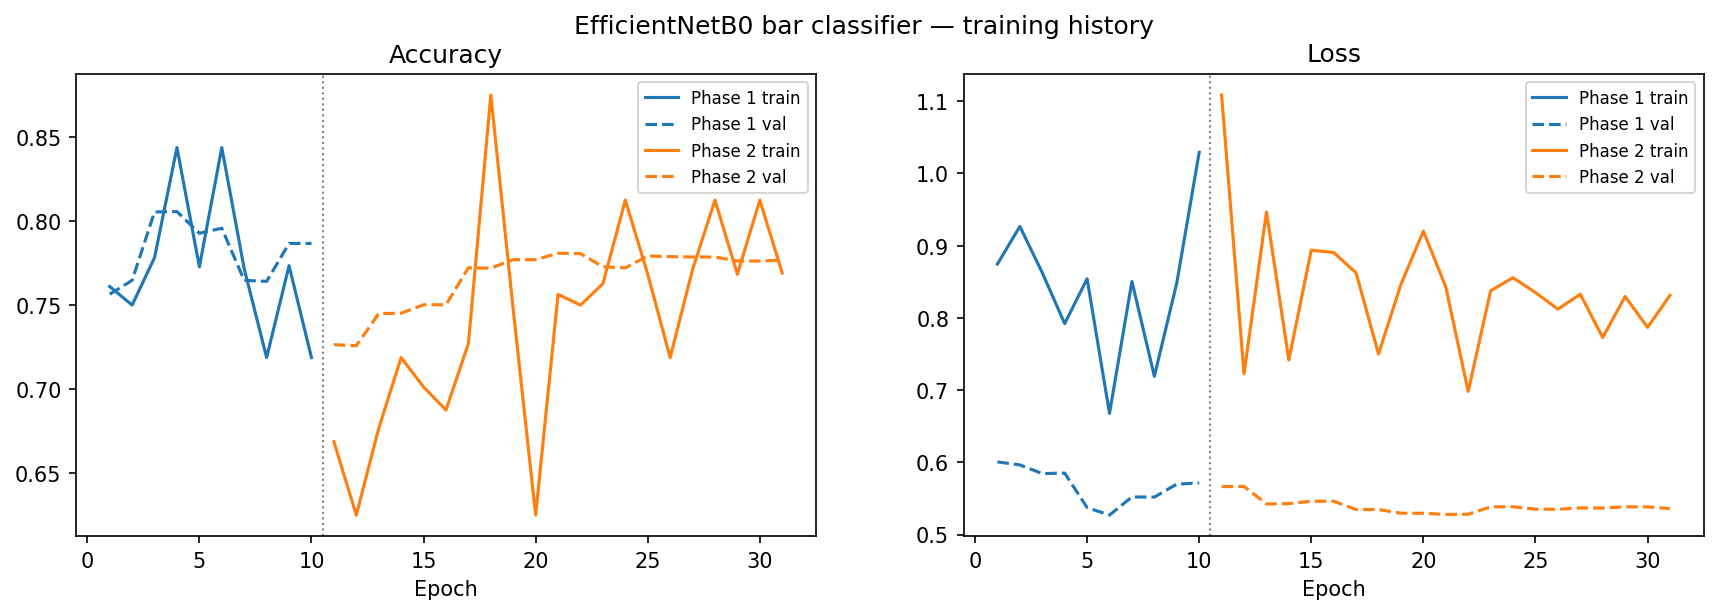
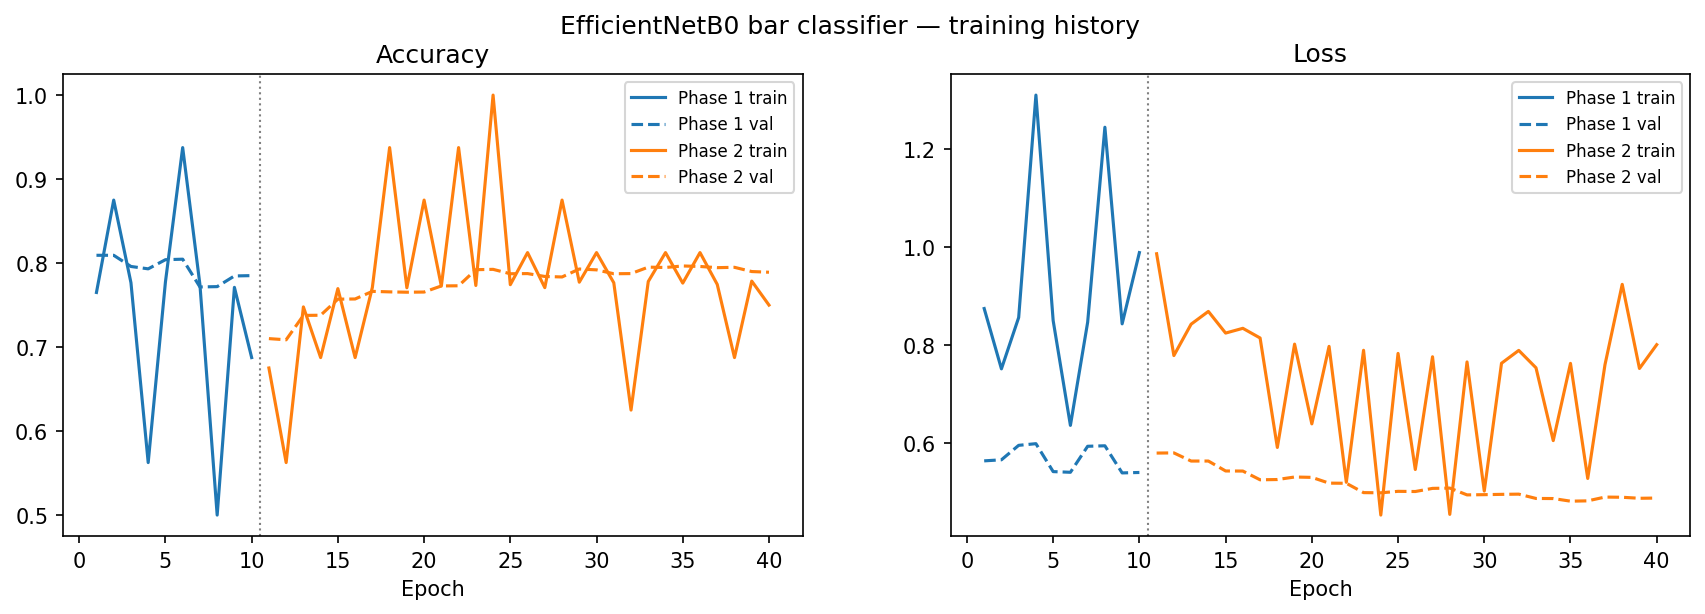
Retrain clf_top with EfficientNetB0 and refactor hierarchical pipeline
- train_hierarchical.py: full EfficientNetB0 two-phase transfer learning for
  all three decision-tree nodes (top/edge/bar), replaces custom 4-block CNN
- train_bar_efficientnet.py: minor fix for EfficientNet input normalisation
- config.yaml: add branch_threshold and random_seed fields
- Makefile: add train-bar target for standalone EfficientNet bar retraining
- Update training history plots (top/edge/bar_efficientnet) from latest runs
- .gitignore: exclude outputs/*.log (large/binary training logs)
- 01_inspect_data.ipynb: additional EDA cells

diff --git a/src/train_hierarchical.py b/src/train_hierarchical.py
@@ -6,9 +6,15 @@ Decision tree implemented:
   Q2 (clf_edge) : Edge-on / Not-edge-on                    — Features galaxies only
   Q3 (clf_bar)  : Bar / No bar                             — Not-edge-on disks only
 
+Architecture: EfficientNetB0 (ImageNet pretrained), two-phase transfer learning.
+  Phase 1 (~10 epochs): Head only, base frozen, lr=1e-3
+  Phase 2 (~30 epochs): Fine-tune top 30 EfficientNet layers, lr=1e-5
+
 Usage:
     python src/train_hierarchical.py            # train all three
     python src/train_hierarchical.py --node top # train only clf_top
+    python src/train_hierarchical.py --node edge
+    python src/train_hierarchical.py --node bar
 """
 import argparse
 import numpy as np
@@ -17,11 +23,7 @@ import matplotlib.pyplot as plt
 import tensorflow as tf
 import yaml
 from tensorflow.keras.preprocessing.image import ImageDataGenerator
-from tensorflow.keras.models import Sequential
-from tensorflow.keras.layers import (
-    Conv2D, MaxPooling2D, Flatten, Dense,
-    Dropout, Input, BatchNormalization,
-)
+from tensorflow.keras.layers import GlobalAveragePooling2D, Dense, Dropout
 from tensorflow.keras.callbacks import EarlyStopping, ModelCheckpoint, ReduceLROnPlateau
 from sklearn.utils.class_weight import compute_class_weight
 from pathlib import Path
@@ -42,6 +44,14 @@ TRAIN_DIR    = str(PROJECT_ROOT / _cfg["paths"]["train_dir"])
 CSV_PATH     = str(PROJECT_ROOT / _cfg["paths"]["csv_path"])
 MODELS_DIR   = PROJECT_ROOT / _cfg["paths"]["models_dir"]
 OUTPUTS_DIR  = PROJECT_ROOT / _cfg["paths"]["outputs_dir"]
+
+# Phase hyperparameters
+PHASE1_EPOCHS  = 10
+PHASE1_LR      = 1e-3
+PHASE2_EPOCHS  = min(EPOCHS - PHASE1_EPOCHS, 40)  # cap total at config epochs
+PHASE2_LR      = 1e-5
+FINE_TUNE_FROM = -30   # unfreeze last 30 EfficientNet layers in phase 2
+MAX_WEIGHT     = 20.0  # cap class weights to prevent gradient explosion (Class1.3)
 
 
 # ---------------------------------------------------------------------------
@@ -73,54 +83,59 @@ NODES = {
 
 
 # ---------------------------------------------------------------------------
-# Shared CNN — same architecture for every node
+# EfficientNetB0 transfer learning model
 # ---------------------------------------------------------------------------
-def build_model(num_classes: int) -> tf.keras.Model:
-    return Sequential([
-        Input(shape=(IMG_HEIGHT, IMG_WIDTH, 3)),
+def build_efficientnet(num_classes: int):
+    """Two-phase EfficientNetB0: returns (model, base) so Phase 2 can unfreeze base."""
+    base = tf.keras.applications.EfficientNetB0(
+        include_top=False,
+        weights="imagenet",
+        input_shape=(IMG_HEIGHT, IMG_WIDTH, 3),
+    )
+    base.trainable = False
 
-        Conv2D(32,  (3, 3), activation="relu", padding="same"),
-        BatchNormalization(), MaxPooling2D(2, 2),
+    inputs = tf.keras.Input(shape=(IMG_HEIGHT, IMG_WIDTH, 3))
+    # ImageDataGenerator rescales to [0,1]; EfficientNetB0 expects [0,255]
+    x = tf.keras.layers.Rescaling(scale=255.)(inputs)
+    x = base(x, training=False)
+    x = GlobalAveragePooling2D()(x)
+    x = Dense(128, activation="relu")(x)
+    x = Dropout(0.5)(x)
+    outputs = Dense(num_classes, activation="softmax")(x)
 
-        Conv2D(64,  (3, 3), activation="relu", padding="same"),
-        BatchNormalization(), MaxPooling2D(2, 2),
-
-        Conv2D(128, (3, 3), activation="relu", padding="same"),
-        BatchNormalization(), MaxPooling2D(2, 2),
-
-        Conv2D(256, (3, 3), activation="relu", padding="same"),
-        BatchNormalization(), MaxPooling2D(2, 2),
-
-        Flatten(),
-        Dense(256, activation="relu"),
-        Dropout(0.5),
-        Dense(num_classes, activation="softmax"),
-    ])
+    model = tf.keras.Model(inputs, outputs)
+    return model, base
 
 
-def make_callbacks(model_path: str):
+def make_callbacks(model_path: str, patience_es: int, patience_lr: int):
     return [
-        EarlyStopping(monitor="val_loss", patience=7,
+        EarlyStopping(monitor="val_loss", patience=patience_es,
                       restore_best_weights=True, verbose=1),
         ModelCheckpoint(model_path, monitor="val_accuracy",
                         save_best_only=True, verbose=1),
         ReduceLROnPlateau(monitor="val_loss", factor=0.5,
-                          patience=3, min_lr=1e-6, verbose=1),
+                          patience=patience_lr, min_lr=1e-7, verbose=1),
     ]
 
 
-def plot_history(history, node_name: str):
+def plot_history(h1, h2, node_name: str):
     OUTPUTS_DIR.mkdir(parents=True, exist_ok=True)
-    fig, (ax1, ax2) = plt.subplots(1, 2, figsize=(12, 4))
-    fig.suptitle(f"Training history — {node_name}")
+    fig, (ax1, ax2) = plt.subplots(1, 2, figsize=(14, 4))
+    fig.suptitle(f"EfficientNetB0 — {node_name} node training history")
 
-    ax1.plot(history.history["accuracy"],     label="Train")
-    ax1.plot(history.history["val_accuracy"], label="Validation")
-    ax1.set_title("Accuracy"); ax1.set_xlabel("Epoch"); ax1.legend()
+    p1_len = len(h1.history["accuracy"])
+    epochs_p1 = range(1, p1_len + 1)
+    epochs_p2 = range(p1_len + 1, p1_len + len(h2.history["accuracy"]) + 1)
 
-    ax2.plot(history.history["loss"],     label="Train")
-    ax2.plot(history.history["val_loss"], label="Validation")
-    ax2.set_title("Loss"); ax2.set_xlabel("Epoch"); ax2.legend()
+    for ax, metric in zip((ax1, ax2), ("accuracy", "loss")):
+        ax.plot(epochs_p1, h1.history[metric],          "C0-",  label="Phase 1 train")
+        ax.plot(epochs_p1, h1.history[f"val_{metric}"], "C0--", label="Phase 1 val")
+        ax.plot(epochs_p2, h2.history[metric],          "C1-",  label="Phase 2 train")
+        ax.plot(epochs_p2, h2.history[f"val_{metric}"], "C1--", label="Phase 2 val")
+        ax.axvline(p1_len + 0.5, color="gray", linestyle=":", linewidth=1)
+        ax.set_title(metric.capitalize())
+        ax.set_xlabel("Epoch")
+        ax.legend(fontsize=8)
 
     out = OUTPUTS_DIR / f"history_{node_name}.png"
     fig.savefig(str(out), dpi=150, bbox_inches="tight")
@@ -138,7 +153,7 @@ def train_node(node_name: str, df_full: pd.DataFrame):
     print(f"  {cfg['description']}")
     print(f"{'='*60}")
 
-    # 1. Filter dataframe to the relevant sub-population
+    # 1. Filter to relevant sub-population
     if cfg["filter_col"] is not None:
         df = df_full[df_full[cfg["filter_col"]] >= BRANCH_THRESHOLD].copy()
         print(f"  Filtered to {len(df):,} galaxies "
@@ -147,7 +162,7 @@ def train_node(node_name: str, df_full: pd.DataFrame):
         df = df_full.copy()
         print(f"  Using full dataset: {len(df):,} galaxies")
 
-    # 2. Assign a hard label via argmax over the node's probability columns
+    # 2. Hard label via argmax
     df["class_label"] = df[cfg["classes"]].idxmax(axis=1)
     print(f"  Class distribution:\n{df['class_label'].value_counts().to_string()}\n")
 
@@ -174,17 +189,12 @@ def train_node(node_name: str, df_full: pd.DataFrame):
         class_mode="categorical",
         seed=SEED,
     )
-    train_gen = train_datagen.flow_from_dataframe(
-        df, subset="training", shuffle=True, **common)
-    val_gen = val_datagen.flow_from_dataframe(
-        df, subset="validation", shuffle=False, **common)
+    train_gen = train_datagen.flow_from_dataframe(df, subset="training",   shuffle=True,  **common)
+    val_gen   = val_datagen.flow_from_dataframe(  df, subset="validation", shuffle=False, **common)
 
     print(f"  Class indices: {train_gen.class_indices}")
 
-    # 4. Class weights — balance against imbalanced nodes (esp. clf_top Class1.3)
-    # Cap at MAX_WEIGHT: raw balanced weights for Class1.3 (~59 samples) reach
-    # ~348x which causes gradient explosion. 20x is still strongly corrective.
-    MAX_WEIGHT = 20.0
+    # 4. Class weights (capped — Class1.3 has ~59 samples, raw ~348x causes explosion)
     class_names_sorted = sorted(train_gen.class_indices.keys())
     raw_weights = compute_class_weight(
         "balanced",
@@ -195,31 +205,53 @@ def train_node(node_name: str, df_full: pd.DataFrame):
     class_weight = {train_gen.class_indices[c]: w for c, w in zip(class_names_sorted, raw_weights)}
     print(f"  Class weights: { {c: f'{class_weight[train_gen.class_indices[c]]:.2f}' for c in class_names_sorted} }")
 
-    # 5. Build + compile
-    model = build_model(len(train_gen.class_indices))
+    MODELS_DIR.mkdir(parents=True, exist_ok=True)
+    model_path = str(MODELS_DIR / cfg["model_file"])
+
+    # 5. Build model
+    model, base = build_efficientnet(len(train_gen.class_indices))
+
+    # ── Phase 1: head only (base frozen) ────────────────────────────────────
+    print(f"\n  Phase 1 — training head (base frozen), lr={PHASE1_LR}")
     model.compile(
-        optimizer=tf.keras.optimizers.Adam(learning_rate=1e-3),
+        optimizer=tf.keras.optimizers.Adam(learning_rate=PHASE1_LR),
         loss="categorical_crossentropy",
         metrics=["accuracy"],
     )
 
-    # 6. Train
-    MODELS_DIR.mkdir(parents=True, exist_ok=True)
-    model_path = str(MODELS_DIR / cfg["model_file"])
-
-    history = model.fit(
+    history1 = model.fit(
         train_gen,
-        steps_per_epoch=train_gen.samples // BATCH_SIZE,
         validation_data=val_gen,
-        validation_steps=val_gen.samples // BATCH_SIZE,
-        epochs=EPOCHS,
-        callbacks=make_callbacks(model_path),
+        epochs=PHASE1_EPOCHS,
+        callbacks=make_callbacks(model_path, patience_es=5, patience_lr=3),
         class_weight=class_weight,
     )
 
-    plot_history(history, node_name)
+    # ── Phase 2: fine-tune top EfficientNet layers ───────────────────────────
+    print(f"\n  Phase 2 — fine-tuning top {abs(FINE_TUNE_FROM)} EfficientNet layers, lr={PHASE2_LR}")
+    base.trainable = True
+    for layer in base.layers[:FINE_TUNE_FROM]:
+        layer.trainable = False
+    trainable_count = sum(1 for l in base.layers if l.trainable)
+    print(f"  EfficientNet trainable layers: {trainable_count} / {len(base.layers)}")
+
+    model.compile(
+        optimizer=tf.keras.optimizers.Adam(learning_rate=PHASE2_LR),
+        loss="categorical_crossentropy",
+        metrics=["accuracy"],
+    )
+
+    history2 = model.fit(
+        train_gen,
+        validation_data=val_gen,
+        epochs=PHASE2_EPOCHS,
+        callbacks=make_callbacks(model_path, patience_es=10, patience_lr=4),
+        class_weight=class_weight,
+    )
+
+    plot_history(history1, history2, node_name)
     print(f"  Best model saved -> {model_path}")
-    return history
+    return history1, history2
 
 
 # ---------------------------------------------------------------------------

diff --git a/src/train_bar_efficientnet.py b/src/train_bar_efficientnet.py
@@ -63,7 +63,7 @@ def make_generators(df: pd.DataFrame):
         height_shift_range=0.1,
         horizontal_flip=True,
         vertical_flip=True,
-        zoom_range=0.1,
+        zoom_range=0.05,
         fill_mode="nearest",
         validation_split=VAL_SPLIT,
     )
